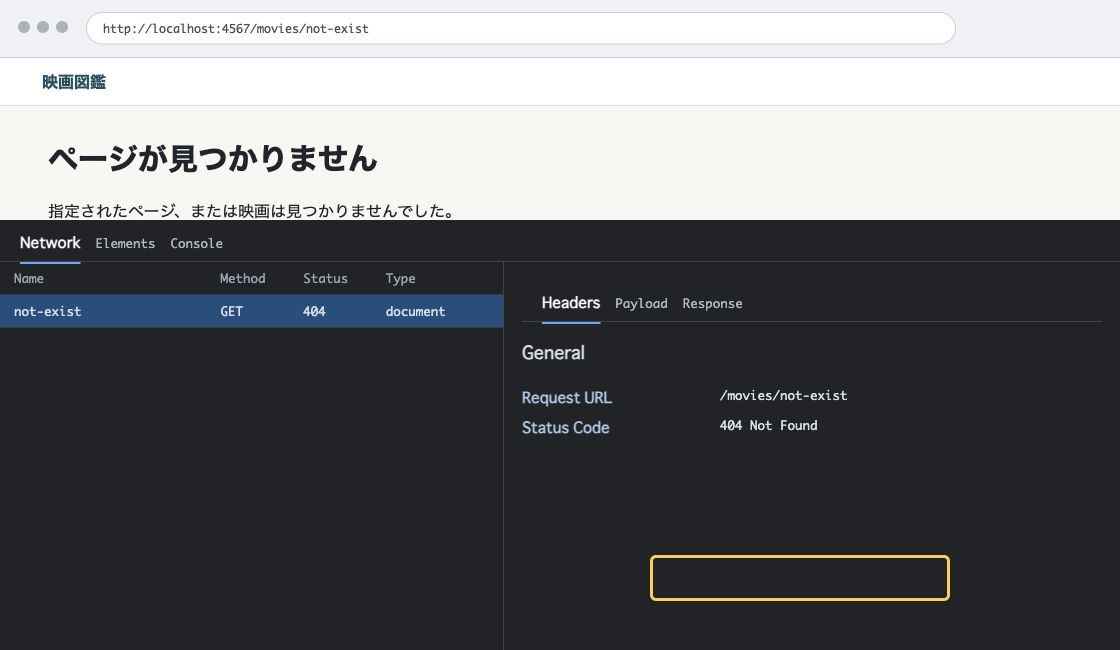
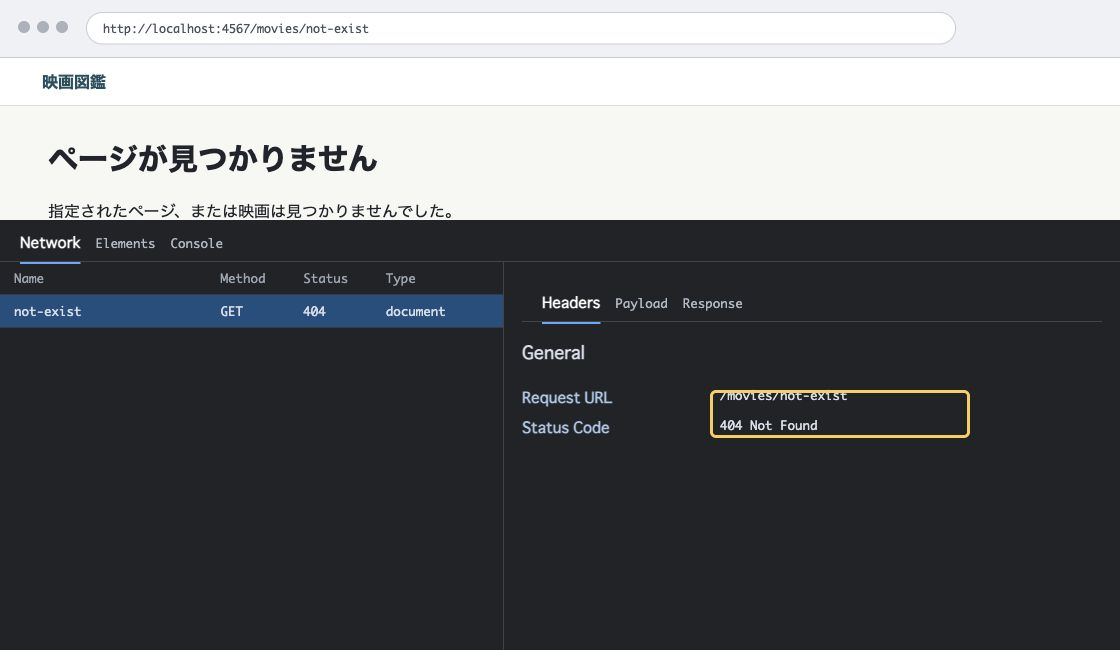
キャプチャの注釈位置を修正

Changed region(s): [[0.5625, 0.8308, 0.875, 0.9538], [0.625, 0.5846, 0.875, 0.6769]]

diff --git a/scripts/captures/source.html b/scripts/captures/source.html
@@ -13,18 +13,18 @@ const rows=(items)=>items.map(x=>`<div class="row ${x.s?'selected':''}"><span>${
 const net=(items,detail)=>`<div class="panel net"><div class="tabs"><b>Network</b>　Elements　Console</div><div class="requests"><div class="row head"><span>Name</span><span>Method</span><span>Status</span><span>Type</span></div>${rows(items)}</div><div class="details"><div class="tabs"><b>Headers</b>　Payload　Response</div>${detail}</div></div>`;
 const appForm=(error=false)=>`<div class="site">映画図鑑</div><div class="app"><h1>映画登録</h1>${error?'<div class="error"><b>入力内容を確認してください。</b><br>・タイトルを入力してください</div>':''}<form class="form"><div class="field"><label>タイトル</label><input value="${error?'':'星屑の駅'}"></div><div class="field"><label>監督</label><input value="山田アキラ"></div><div class="field"><label>公開年</label><input value="2042"></div><div class="field"><label>ジャンル</label><select><option>SF</option></select></div><div class="field"><label>紹介文</label><textarea rows="3">夜空を走る列車と、小さな駅の物語。</textarea></div><span class="btn">登録する</span></form></div>`;
 const captures=[
-['c1',browser('http://localhost:4567/movies')+net([{n:'movies',m:'GET',st:'200',s:1}],`<h3>General</h3><div class="kv"><strong>Request URL</strong><span>http://localhost:4567/movies</span><strong>Request Method</strong><span>GET</span><strong>Status Code</strong><span>200 OK</span></div>`)+`<i class="call" style="left:475px;top:275px">1</i><i class="call" style="left:650px;top:358px">2</i><i class="call" style="left:650px;top:398px">3</i>`],
+['c1',browser('http://localhost:4567/movies')+net([{n:'movies',m:'GET',st:'200',s:1}],`<h3>General</h3><div class="kv"><strong>Request URL</strong><span>http://localhost:4567/movies</span><strong>Request Method</strong><span>GET</span><strong>Status Code</strong><span>200 OK</span></div>`)+`<i class="call" style="left:475px;top:275px">1</i><i class="call" style="left:650px;top:370px">2</i><i class="call" style="left:650px;top:400px">3</i><i class="call" style="left:650px;top:430px">4</i>`],
 ['c2',browser('http://localhost:4567/movies')+net([{n:'localhost:4567',m:'GET',st:'302'},{n:'movies',m:'GET',st:'200',s:1}],`<h3>Response Headers</h3><div class="kv"><strong>location</strong><span>/movies</span><strong>status</strong><span>302 Found → 200 OK</span></div>`)+`<i class="call" style="left:350px;top:310px">1</i><i class="call" style="left:350px;top:350px">2</i>`],
-['c3',browser('http://localhost:4567/movies')+`<div class="site">映画図鑑</div><div class="app"><h1>映画一覧</h1></div>`+net([{n:'movies',m:'GET',st:'200',t:'document',s:1},{n:'application.css',m:'GET',st:'200',t:'stylesheet'}],`<h3>二つのレスポンス</h3><p>movies → HTML</p><p>application.css → CSS</p>`)+`<div class="outline" style="left:12px;top:310px;width:486px;height:84px"></div>`],
+['c3',browser('http://localhost:4567/movies')+`<div class="site">映画図鑑</div><div class="app"><h1>映画一覧</h1></div>`+net([{n:'movies',m:'GET',st:'200',t:'document',s:1},{n:'application.css',m:'GET',st:'200',t:'stylesheet'}],`<h3>二つのレスポンス</h3><p>movies → HTML</p><p>application.css → CSS</p>`)+`<div class="outline" style="left:12px;top:282px;width:486px;height:116px"></div>`],
 ['c4',browser('http://localhost:4567/movies/new')+appForm(false)],
 ['c5',browser('http://localhost:4567/movies')+`<div class="split"><div>${appForm(false).replace(/^.*?<div class="site">/,'<div class="site">')}</div><div class="panel" style="inset:0;padding:24px"><span class="label">Payload</span><h3>Form Data</h3><div class="kv"><strong>title</strong><span>星屑の駅</span><strong>director</strong><span>山田アキラ</span><strong>year</strong><span>2042</span><strong>genre</strong><span>SF</span><strong>description</strong><span>夜空を走る列車と、小さな駅の物語。</span></div></div></div>`],
-['c6',browser('http://localhost:4567/movies')+appForm(true)+`<div class="outline" style="left:42px;top:137px;width:690px;height:76px"></div><i class="call" style="left:750px;top:156px">1</i><i class="call" style="left:750px;top:300px">2</i>`],
+['c6',browser('http://localhost:4567/movies')+appForm(true)+`<div class="outline" style="left:48px;top:190px;width:1024px;height:76px"></div><i class="call" style="left:1038px;top:212px">1</i><i class="call" style="left:750px;top:300px">2</i>`],
 ['c7',browser('http://localhost:4567/movies')+`<div class="split"><div><span class="label">/movies</span><h1>映画一覧</h1><table class="table"><tr><th>タイトル</th><th>公開年</th><th>操作</th></tr><tr><td>月面喫茶</td><td>2042</td><td>詳細</td></tr><tr><td>北風のリズム</td><td>2038</td><td>詳細</td></tr></table></div><div><span class="label">/movies/moon-cafe</span><h1>月面喫茶</h1><dl class="detail"><div><dt>監督</dt><dd>山田アキラ</dd></div><div><dt>公開年</dt><dd>2042</dd></div><div><dt>ジャンル</dt><dd>SF</dd></div><div><dt>紹介文</dt><dd>月面にある小さな喫茶店を舞台にした物語。</dd></div></dl></div></div>`],
-['c8',browser('http://localhost:4567/movies/moon-cafe')+`<div class="site">映画図鑑</div><div class="app"><h1>月面喫茶</h1><dl class="detail"><div><dt>監督</dt><dd>山田アキラ</dd></div><div><dt>公開年</dt><dd>2042</dd></div><div><dt>ジャンル</dt><dd>SF</dd></div><div><dt>紹介文</dt><dd>月面にある小さな喫茶店を舞台にした物語。</dd></div></dl><p><a>一覧へ戻る</a>　<span class="btn">編集する</span>　<span class="btn danger">削除する</span></p></div><div class="outline" style="left:180px;top:460px;width:250px;height:58px"></div>`],
+['c8',browser('http://localhost:4567/movies/moon-cafe')+`<div class="site">映画図鑑</div><div class="app"><h1>月面喫茶</h1><dl class="detail"><div><dt>監督</dt><dd>山田アキラ</dd></div><div><dt>公開年</dt><dd>2042</dd></div><div><dt>ジャンル</dt><dd>SF</dd></div><div><dt>紹介文</dt><dd>月面にある小さな喫茶店を舞台にした物語。</dd></div></dl><p><a>一覧へ戻る</a>　<span class="btn">編集する</span>　<span class="btn danger">削除する</span></p></div><div class="outline" style="left:142px;top:407px;width:214px;height:56px"></div>`],
 ['c9',browser('http://localhost:4567/movies/moon-cafe')+`<div class="three"><div class="box"><h2>1 ブラウザ</h2><p class="code">POST /movies/moon-cafe</p></div><div class="box"><h2>2 Form Data</h2><p class="code">_method=patch\ntitle=月面喫茶 改</p></div><div class="box"><h2>3 Sinatraログ</h2><p class="code">PATCH /movies/moon-cafe\n303 See Other</p></div></div><div class="note">POSTを受け取り、PATCHとして処理する</div>`],
 ['c10',browser('http://localhost:4567/movies/new')+`<div class="flow"><div class="step"><b>Post</b><p>POST /movies</p></div><span class="arrow">→</span><div class="step"><b>Redirect</b><p>303 See Other<br>Location: /movies/star-station</p></div><span class="arrow">→</span><div class="step"><b>Get</b><p>GET /movies/star-station<br>200 OK</p></div></div>`],
 ['c11',browser('http://localhost:4567/movies/xss-sample')+`<div class="split"><div><span class="label safe">安全な表示</span><h1>&lt;script&gt;alert(&quot;xss&quot;)&lt;/script&gt;</h1><p>入力が文字として表示され、実行されない。</p><div class="code">&amp;lt;script&amp;gt;alert(&amp;quot;xss&amp;quot;)&amp;lt;/script&amp;gt;</div></div><div><span class="label unsafe">危険な表示（一時確認）</span><h1 style="color:#9f1239">HTMLとして解釈される</h1><p>表示が崩れたり、スクリプトが動く可能性がある。</p><div class="code">&lt;script&gt;alert(&quot;xss&quot;)&lt;/script&gt;</div></div></div>`],
-['c12',browser('http://localhost:4567/movies/not-exist')+`<div class="site">映画図鑑</div><div class="app"><h1>ページが見つかりません</h1><p>指定されたページ、または映画は見つかりませんでした。</p><span class="btn">映画一覧へ戻る</span></div>`+net([{n:'not-exist',m:'GET',st:'404',s:1}],`<h3>General</h3><div class="kv"><strong>Request URL</strong><span>/movies/not-exist</span><strong>Status Code</strong><span>404 Not Found</span></div>`)+`<div class="outline" style="left:650px;top:555px;width:300px;height:46px"></div>`],
+['c12',browser('http://localhost:4567/movies/not-exist')+`<div class="site">映画図鑑</div><div class="app"><h1>ページが見つかりません</h1><p>指定されたページ、または映画は見つかりませんでした。</p><span class="btn">映画一覧へ戻る</span></div>`+net([{n:'not-exist',m:'GET',st:'404',s:1}],`<h3>General</h3><div class="kv"><strong>Request URL</strong><span>/movies/not-exist</span><strong>Status Code</strong><span>404 Not Found</span></div>`)+`<div class="outline" style="left:710px;top:390px;width:260px;height:48px"></div>`],
 ['c13',browser('http://localhost:4567/movies')+`<div class="three"><div class="box"><h2>1 ブラウザから届いた</h2><p class="code">Form Data\ntitle=星屑の駅\nyear=2042</p></div><div class="box"><h2>2 Sinatraが処理した</h2><p class="code">POST /movies\n303 See Other</p></div><div class="box"><h2>3 JSONへ保存された</h2><p class="code">{\n  &quot;title&quot;: &quot;星屑の駅&quot;,\n  &quot;year&quot;: &quot;2042&quot;\n}</p></div></div>`]
 ];
 document.querySelector('#captures').innerHTML=captures.map(([id,html])=>`<section class="capture" id="${id}">${html}</section>`).join('');
